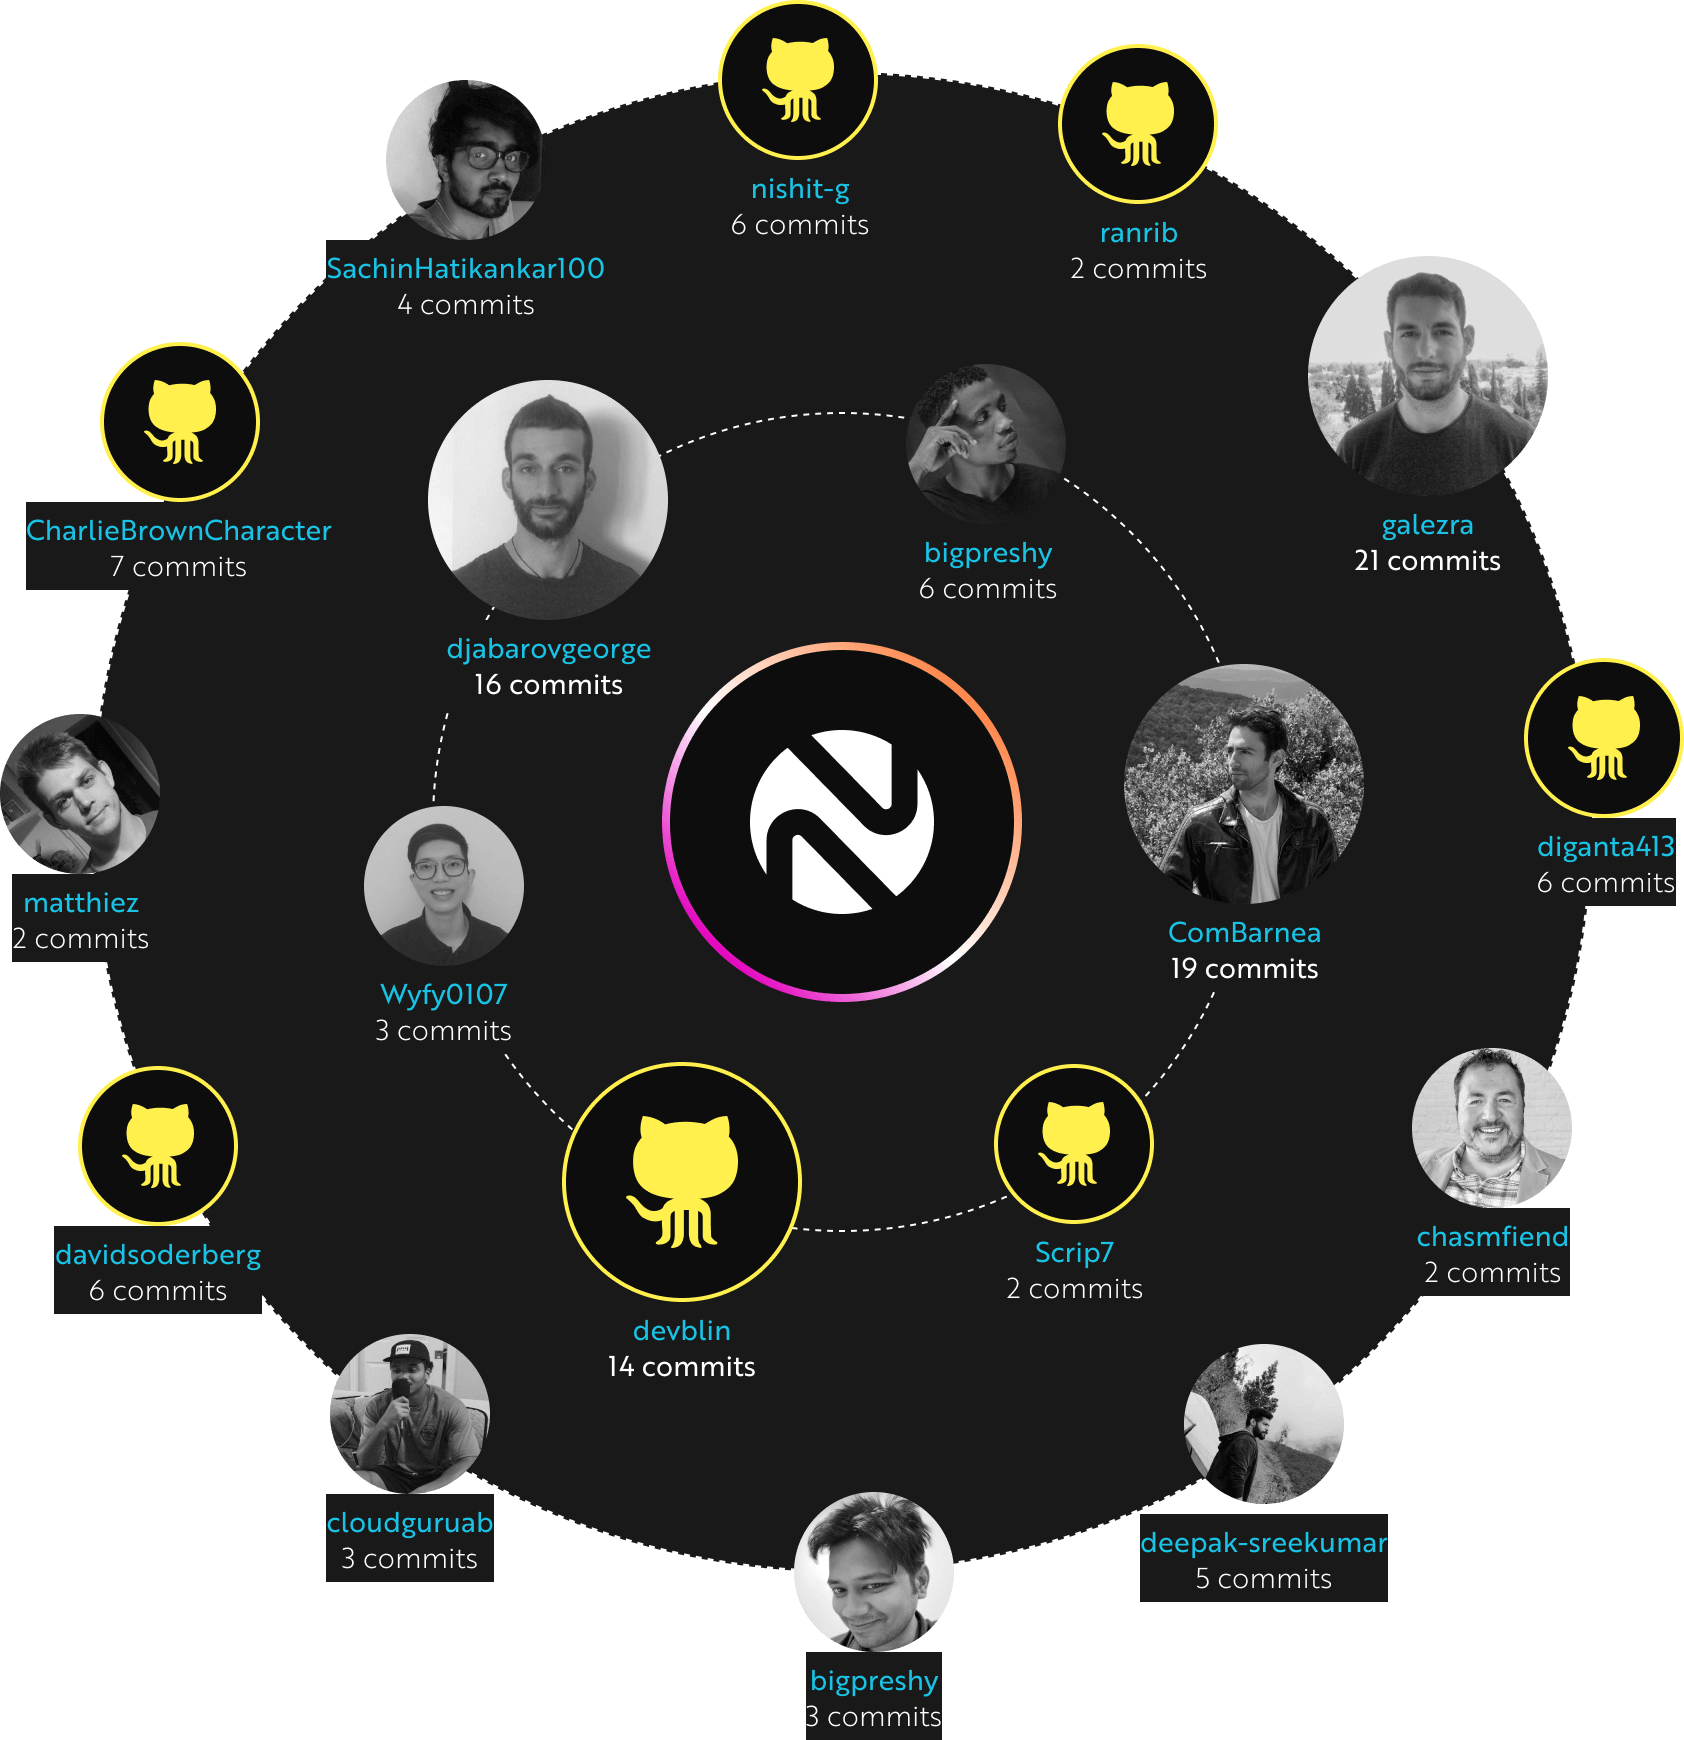
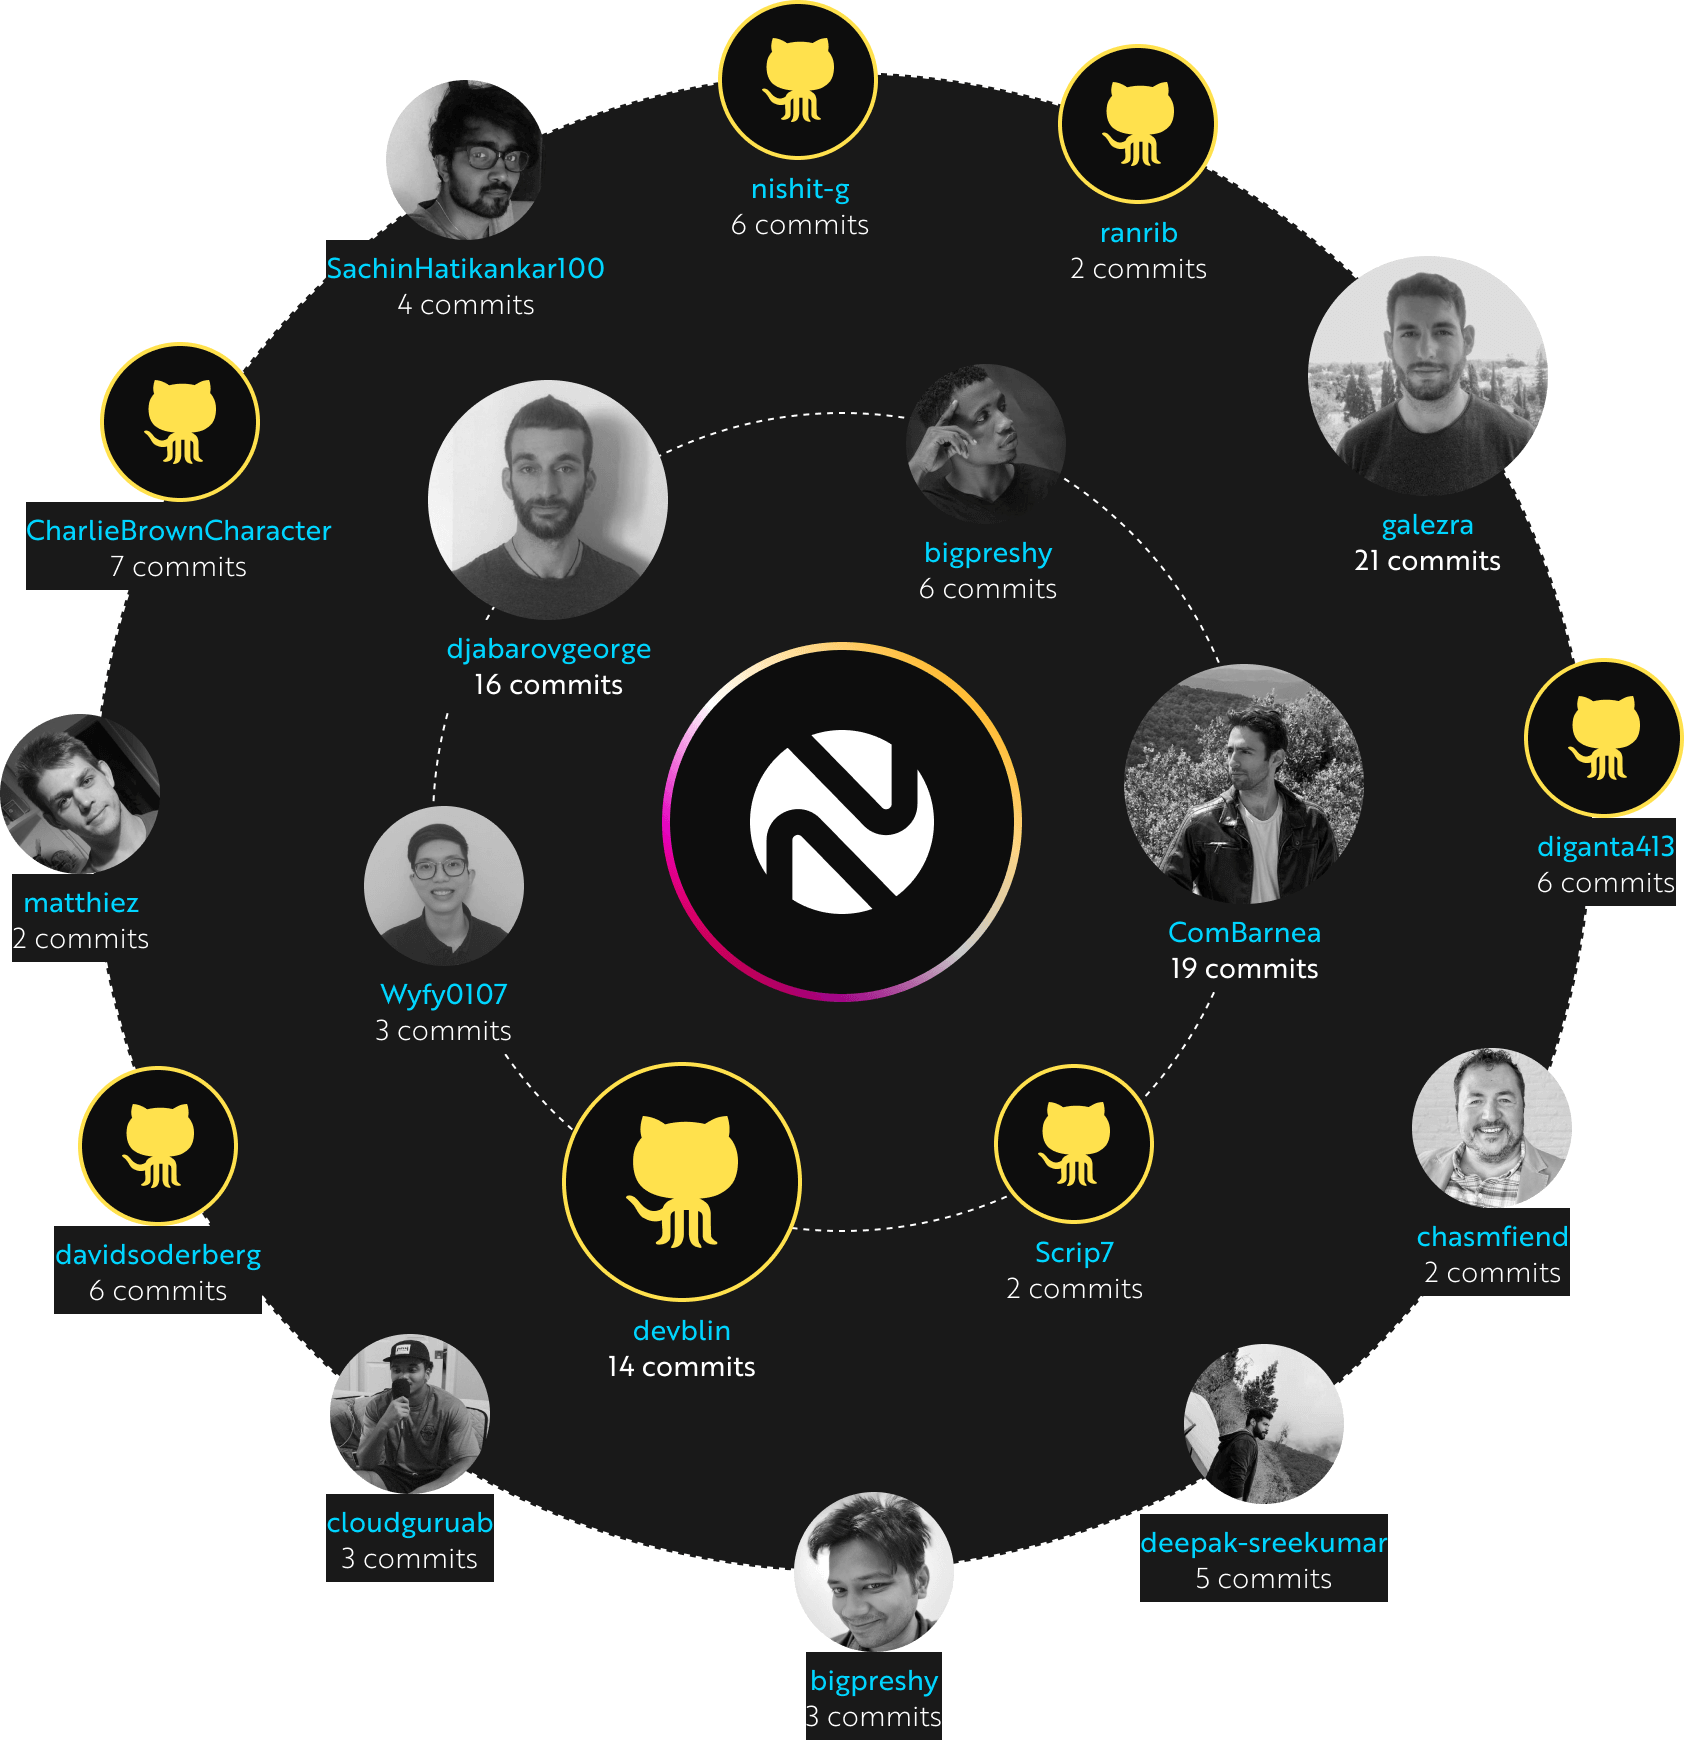
feat: update styles

diff --git a/src/components/pages/home/how-it-works/how-it-works.jsx b/src/components/pages/home/how-it-works/how-it-works.jsx
@@ -46,11 +46,11 @@ const HowItWorks = () => (
       <div className="mt-10 grid grid-cols-3 gap-x-10 lg:gap-x-7 md:block md:gap-x-0 md:space-y-7">
         {CARDS.map(({ title, description, image }, index) => (
           <div
-            className="rounded-[20px] bg-gradient-to-b from-gray-2 to-[rgba(26,26,26,0.7)] p-8 lg:p-5 md:grid md:grid-cols-2 md:items-center md:gap-x-5 sm:block"
+            className="rounded-[20px] bg-gradient-to-b from-gray-2 to-[rgba(26,26,26,0.7)] md:grid md:grid-cols-2 md:items-center md:gap-x-5 sm:block"
             key={index}
           >
             {image}
-            <div className="mt-14 lg:mt-8 md:mt-0 sm:mt-10">
+            <div className="p-8 pt-5 lg:p-5">
               <Heading className="leading-snug lg:text-2xl" tag="h3" size="sm" theme="white">
                 {title}
               </Heading>

diff --git a/tailwind.config.js b/tailwind.config.js
@@ -39,11 +39,11 @@ module.exports = {
       black: '#000000',
       white: '#ffffff',
       primary: {
-        1: '#19C4E6',
+        1: '#00AAFF',
       },
       secondary: {
         1: '#FF33DE',
-        2: '#FFFF33',
+        2: '#FFE14D',
       },
       gray: {
         1: '#0D0D0D',
@@ -58,7 +58,7 @@ module.exports = {
     }),
     backgroundImage: {
       'input-gradient':
-        'linear-gradient(268.91deg, #FF884D 23.17%, #FFFFFF 53.83%, #E300BD 80.17%)',
+        'linear-gradient(268.91deg, #FFBB33 14.72%, #FFFFFF 51.94%, #E300BD 82.34%, #FF006A 94.81%)',
       ...defaultTheme.backgroundImage,
     },
     screens: {

diff --git a/src/components/shared/header/header.jsx b/src/components/shared/header/header.jsx
@@ -14,7 +14,7 @@ const Header = ({ isMobileMenuOpen, onBurgerClick }) => (
   <header className="safe-paddings absolute top-0 left-0 right-0 z-40 w-full bg-black lg:relative">
     <div className="flex items-center justify-between py-3 px-10 md:py-4 md:px-7 sm:px-4">
       <Link to="/">
-        <Logo className="h-6" aria-hidden />
+        <Logo className="h-8" aria-hidden />
         <span className="sr-only">Notu</span>
       </Link>
 

diff --git a/src/components/shared/footer/footer.jsx b/src/components/shared/footer/footer.jsx
@@ -16,7 +16,7 @@ const Footer = () => (
       <div className="flex flex-col items-start justify-between lg:flex-row lg:items-center">
         <Link to="/">
           <span className="sr-only">Notu</span>
-          <Logo className="h-6" aria-hidden />
+          <Logo className="h-8" aria-hidden />
         </Link>
         <p className="text-sm leading-none text-gray-8 lg:hidden">
           Ⓒ {new Date().getFullYear()} {COPYRIGHT}

diff --git a/src/components/pages/home/get-started/get-started.css b/src/components/pages/home/get-started/get-started.css
@@ -1,4 +1,5 @@
 .get-started-gradient-multicolor {
   background: linear-gradient(0deg, rgba(255, 255, 255, 0.2), rgba(255, 255, 255, 0.2)),
-    linear-gradient(257.22deg, #ff884d 26.38%, #ffffff 51.85%, #e300bd 87.02%);
+    linear-gradient(180deg, rgba(0, 0, 0, 0) 54.67%, rgba(0, 0, 0, 0.3) 100%),
+    linear-gradient(257.22deg, #ffbb33 21.09%, #e300bd 55.18%, #ff006a 92.64%);
 }
